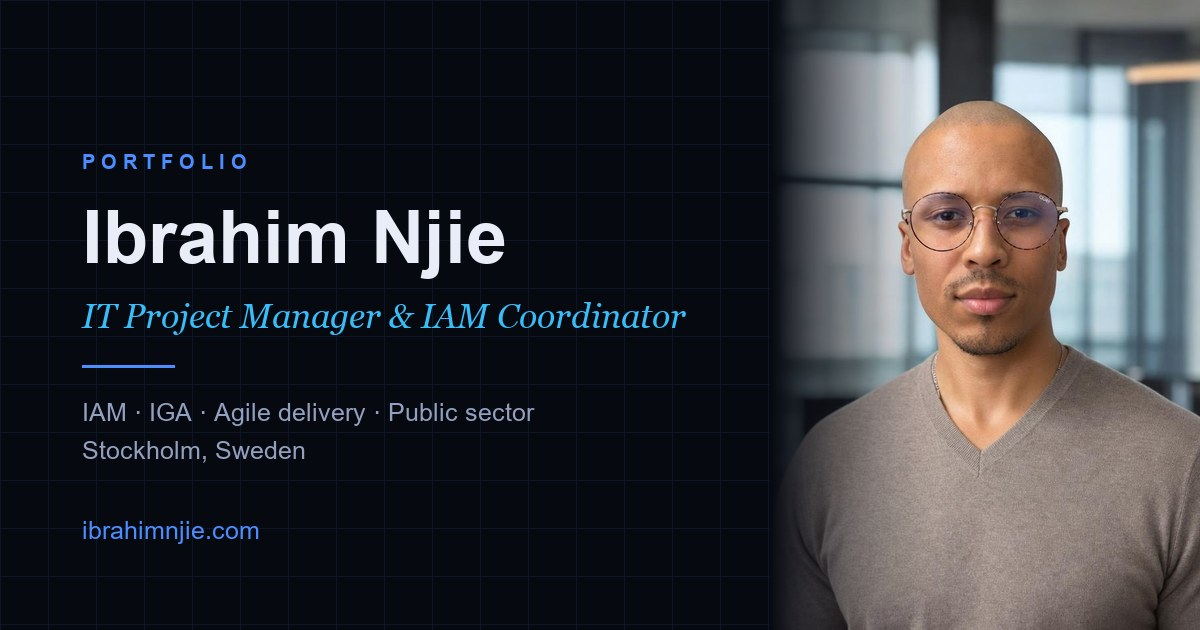
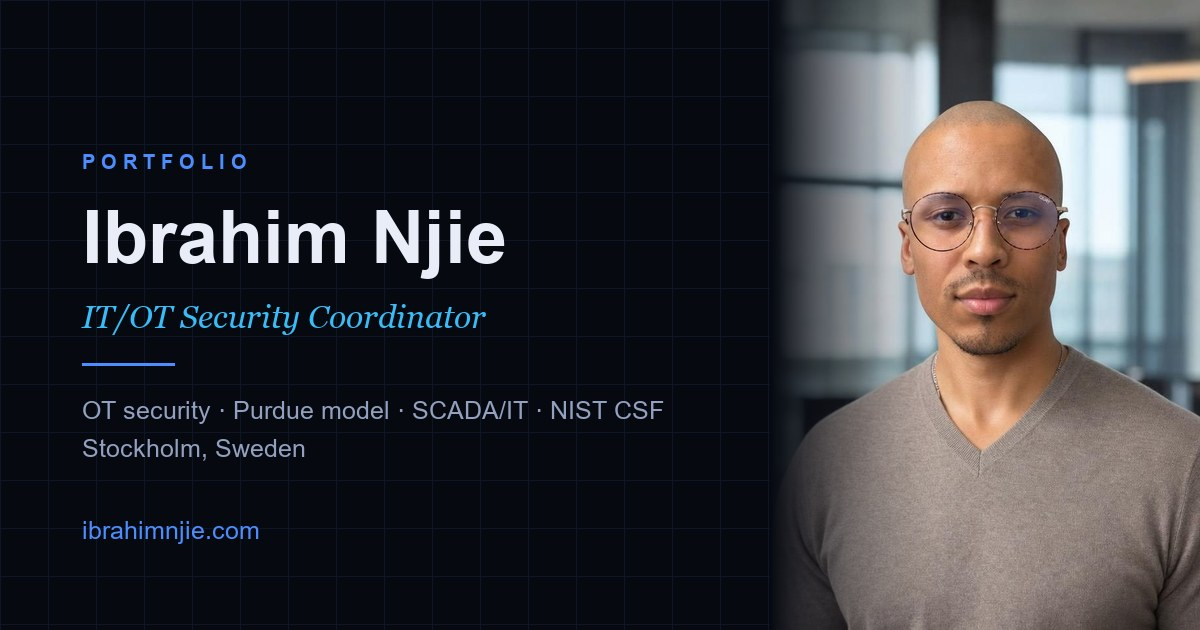
Optimering: SOC/compliance, delningsbild och kvarlevor från gamla rollen
Delningsbilden hade gamla rollen inbränd
og-image.jpg är en genererad bild med text i pixlarna, så rollbytet nådde
den inte. Kortet som LinkedIn och Slack visar sa fortfarande "IT Project
Manager & IAM Coordinator" och "IAM · IGA · Agile delivery · Public
sector" medan sidan sa IT/OT Security Coordinator. Osynligt från sidan
själv och därför lätt att missa. Omgenererad med rätt roll och
"OT security · Purdue model · SCADA/IT · NIST CSF".

Nytt innehåll
- Ny punkt i Boliden-rollen: nära samarbete med centrala IT
  Security-teamet och SOC:en, samt compliance-arbete i hela verksamheten.
  Nu sex punkter.
- Kompetenskortet "IT/OT-säkerhet & segmentering" nämner SOC och det
  centrala säkerhetsteamet.
- JSON-LD: Security Operations Center (SOC), Security compliance,
  Regulatory compliance. 67 -> 70 nyckelord.
- CV: samma punkt, compliance i kärnkompetenserna, SOC-samverkan och
  compliance i verktygsraden.

Kvarlevor från gamla rollen
- Fotots alt-text sa "IT Project Manager and IAM Coordinator" i båda
  språken — en skärmläsare hade läst upp fel titel.
- manifest.json beskrev sidan med gamla rollen.
- sitemap lastmod stod kvar på 2026-08-20.
Historiska jobbtitlar för Trafikförvaltningen och Nvrmind står kvar
oförändrade, de var korrekta då.

Verifierat: 225 element 0 kontrastfel i båda teman, 196 i18n-nycklar med
exakt paritet, 0 oöversatta chips, 0 saknade nycklar, 0 för små klickytor,
0 ostorleksatta ikoner, ingen horisontell scroll på 375px, nyckeltalen
[…]

Changed region(s): [[0.0617, 0.4825, 0.5858, 0.5429], [0.0617, 0.6333, 0.555, 0.7238], [0.0617, 0.573, 0.1542, 0.6032]]

diff --git a/assets/js/script.js b/assets/js/script.js
@@ -43,7 +43,7 @@
       "hero.meta.lang": "Svenska & engelska",
       "hero.meta.cert": "PSM I-certifierad",
       "hero.photoAlt":
-        "Ibrahim Njie, IT-projektledare och IAM-koordinator, fotograferad på ett kontor i Stockholm",
+        "Ibrahim Njie, IT/OT Security Coordinator, fotograferad på ett kontor i Stockholm",
       "hero.linkedin.cta": "LinkedIn-profil",
 
       "stats.identities.value": "30 000+",
@@ -80,7 +80,7 @@
       "skills.heading": "Kärnkompetenser",
       "skills.sub": "Ett urval av det jag arbetar med dagligen — från agil koordinering till identitetssäkerhet.",
       "skills.0.title": "IT/OT-säkerhet & segmentering",
-      "skills.0.body": "Segmenterade zoner enligt Purdue-modellen, gränsen mellan SCADA och IT, med NIST CSF och NIS2 som styrande ram.",
+      "skills.0.body": "Segmenterade zoner enligt Purdue-modellen och gränsen mellan SCADA och IT, nära SOC och centralt IT Security-team, med NIST CSF och NIS2 som styrande ram.",
       "skills.1.title": "IAM, IGA & identitetsplattformar",
       "skills.1.body": "Identitetslivscykler och behörighetsstyrning i Entra ID, Active Directory och Omada — för både mänskliga och icke-mänskliga identiteter.",
       "skills.2.title": "IT-projektledning & agil leverans",
@@ -104,6 +104,7 @@
       "exp.0.b2": "Arbetar med segmenterade zoner och systemsegmentering enligt Purdue-modellen, över gränsen mellan SCADA/OT och IT",
       "exp.0.b3": "Tillämpar NIST CSF och NIS2 som styrande ramverk för säkerhetsarbetet i hela verksamheten",
       "exp.0.b4": "Håller bred internationell stakeholder-kontakt över flera länder — inklusive leverantörer och deras egna underleverantörer",
+      "exp.0.b6": "Arbetar nära det centrala IT Security-teamet och SOC:en, samt med compliance-arbete i hela verksamheten",
       "exp.0.b5": "Deltar i IT- och säkerhetsrelaterade initiativ över hela verksamheten, med återkommande resor mellan anläggningar i flera länder",
       "exp.1.role": "IT-Projektledare / IAM-koordinator",
       "exp.1.company": "Trafikförvaltningen, Region Stockholm",
@@ -263,7 +264,7 @@
       "hero.meta.lang": "Swedish & English",
       "hero.meta.cert": "PSM I certified",
       "hero.photoAlt":
-        "Ibrahim Njie, IT Project Manager and IAM Coordinator, photographed in an office in Stockholm",
+        "Ibrahim Njie, IT/OT Security Coordinator, photographed in an office in Stockholm",
       "hero.linkedin.cta": "LinkedIn profile",
 
       "stats.identities.value": "30,000+",
@@ -300,7 +301,7 @@
       "skills.heading": "Core competencies",
       "skills.sub": "A selection of what I work with day to day — from agile coordination to identity security.",
       "skills.0.title": "IT/OT security & segmentation",
-      "skills.0.body": "Segmented zones along the Purdue model, the boundary between SCADA and IT, with NIST CSF and NIS2 as the governing frame.",
+      "skills.0.body": "Segmented zones along the Purdue model and the SCADA/IT boundary, close to the SOC and the central IT Security team, with NIST CSF and NIS2 as the governing frame.",
       "skills.1.title": "IAM, IGA & identity platforms",
       "skills.1.body": "Identity lifecycles and access governance across Entra ID, Active Directory, and Omada — human and non-human alike.",
       "skills.2.title": "IT project management & agile delivery",
@@ -324,6 +325,7 @@
       "exp.0.b2": "Work with segmented zones and system segmentation along the Purdue model, across the boundary between SCADA/OT and IT",
       "exp.0.b3": "Apply NIST CSF and NIS2 as the governing frameworks for security work across the business",
       "exp.0.b4": "Hold broad international stakeholder contact across several countries — including suppliers and their own subcontractors",
+      "exp.0.b6": "Work closely with the central IT Security team and the SOC, and with compliance work across the business",
       "exp.0.b5": "Take part in IT and security initiatives across the entire business, with regular travel between sites in several countries",
       "exp.1.role": "IT Project Manager / IAM Coordinator",
       "exp.1.company": "Trafikförvaltningen, Region Stockholm",
@@ -528,7 +530,7 @@
     if (cvLink) {
       cvLink.setAttribute(
         "href",
-        lang === "en" ? "assets/cv/CV_Ibrahim_Njie_EN.pdf?v=6" : "assets/cv/CV_Ibrahim_Njie_SV.pdf?v=6"
+        lang === "en" ? "assets/cv/CV_Ibrahim_Njie_EN.pdf?v=7" : "assets/cv/CV_Ibrahim_Njie_SV.pdf?v=7"
       );
     }
 

diff --git a/index.html b/index.html
@@ -42,7 +42,7 @@
   <link rel="canonical" href="https://ibrahimnjie.com/" />
   <link rel="icon" type="image/svg+xml" href="assets/img/favicon.svg" />
   <link rel="manifest" href="manifest.json" />
-  <link rel="stylesheet" href="assets/css/style.css?v=40" />
+  <link rel="stylesheet" href="assets/css/style.css?v=41" />
 
   <!-- Structured data (schema.org Person). This is what lets Google show a
        proper result for a name search — the single highest-value SEO item
@@ -115,6 +115,9 @@
       "Network segmentation",
       "Zone segmentation",
       "NIST Cybersecurity Framework (CSF)",
+      "Security Operations Center (SOC)",
+      "Security compliance",
+      "Regulatory compliance",
       "Agile project management",
       "Scrum",
       "Kanban",
@@ -272,7 +275,7 @@
               <svg aria-hidden="true"><use href="#icon-mail"/></svg>
               <span data-i18n="hero.ctaContact">Get in touch</span>
             </a>
-            <a id="cv-download" class="btn btn-secondary" href="assets/cv/CV_Ibrahim_Njie_EN.pdf?v=6" download>
+            <a id="cv-download" class="btn btn-secondary" href="assets/cv/CV_Ibrahim_Njie_EN.pdf?v=7" download>
               <svg aria-hidden="true"><use href="#icon-download"/></svg>
               <span data-i18n="hero.ctaCv">Download CV</span>
             </a>
@@ -294,7 +297,7 @@
               width="768" height="960"
               fetchpriority="high" decoding="async"
               data-i18n-attr="alt:hero.photoAlt"
-              alt="Ibrahim Njie, IT Project Manager and IAM Coordinator, photographed in an office in Stockholm" />
+              alt="Ibrahim Njie, IT/OT Security Coordinator, photographed in an office in Stockholm" />
             <figcaption class="hero-portrait-cap">
               <span class="hero-portrait-name">Ibrahim Njie</span>
               <a class="hero-portrait-link" href="https://www.linkedin.com/in/ibrahim-njie-68446817b/" target="_blank" rel="noopener noreferrer">
@@ -411,6 +414,7 @@
                 <li><svg aria-hidden="true"><use href="#icon-check"/></svg><span data-i18n="exp.0.b1">Coordinate IT/OT security across the group&rsquo;s smelters, in close collaboration with five smelter managers</span></li>
                 <li><svg aria-hidden="true"><use href="#icon-check"/></svg><span data-i18n="exp.0.b2">Work with segmented zones and system segmentation along the Purdue model, across the boundary between SCADA/OT and IT</span></li>
                 <li><svg aria-hidden="true"><use href="#icon-check"/></svg><span data-i18n="exp.0.b3">Apply NIST CSF and NIS2 as the governing frameworks for security work across the business</span></li>
+                <li><svg aria-hidden="true"><use href="#icon-check"/></svg><span data-i18n="exp.0.b6">Work closely with the central IT Security team and the SOC, and with compliance work across the business</span></li>
                 <li><svg aria-hidden="true"><use href="#icon-check"/></svg><span data-i18n="exp.0.b4">Hold broad international stakeholder contact across several countries &mdash; including suppliers and their own subcontractors</span></li>
                 <li><svg aria-hidden="true"><use href="#icon-check"/></svg><span data-i18n="exp.0.b5">Take part in IT and security initiatives across the entire business, with regular travel between sites in several countries</span></li>
               </ul>
@@ -789,6 +793,6 @@
     </div>
   </footer>
 
-  <script src="assets/js/script.js?v=40"></script>
+  <script src="assets/js/script.js?v=41"></script>
 </body>
 </html>

diff --git a/README.md b/README.md
@@ -5,13 +5,13 @@ paketberoenden, inga externa typsnitt eller skript-CDN:er. Det håller sidan
 snabb, enkel att underhålla och minimerar attackytan (se **Säkerhet** nedan).
 
 ## Viktigt vid varje CSS/JS-ändring: bumpa versionsnumret
-`index.html` laddar `style.css?v=40` och `script.js?v=40` — GitHub Pages
+`index.html` laddar `style.css?v=41` och `script.js?v=41` — GitHub Pages
 CDN (Fastly) cachar annars dessa filer aggressivt och besökare (och vi
 själva) kan se en gammal version i flera minuter efter en push, trots att
 koden på GitHub redan är korrekt. **Höj siffran med 1** i båda
 `<link>`/`<script>`-taggarna i `index.html` varje gång `style.css` eller
 `script.js` ändras — det tvingar fram en färsk hämtning direkt. Samma sak
-gäller CV-filerna (`?v=6`), som refereras både i `index.html` och i
+gäller CV-filerna (`?v=7`), som refereras både i `index.html` och i
 `script.js` (språkväxlingen byter fil) — båda måste bumpas ihop.
 
 ## Byta status när du får jobb
